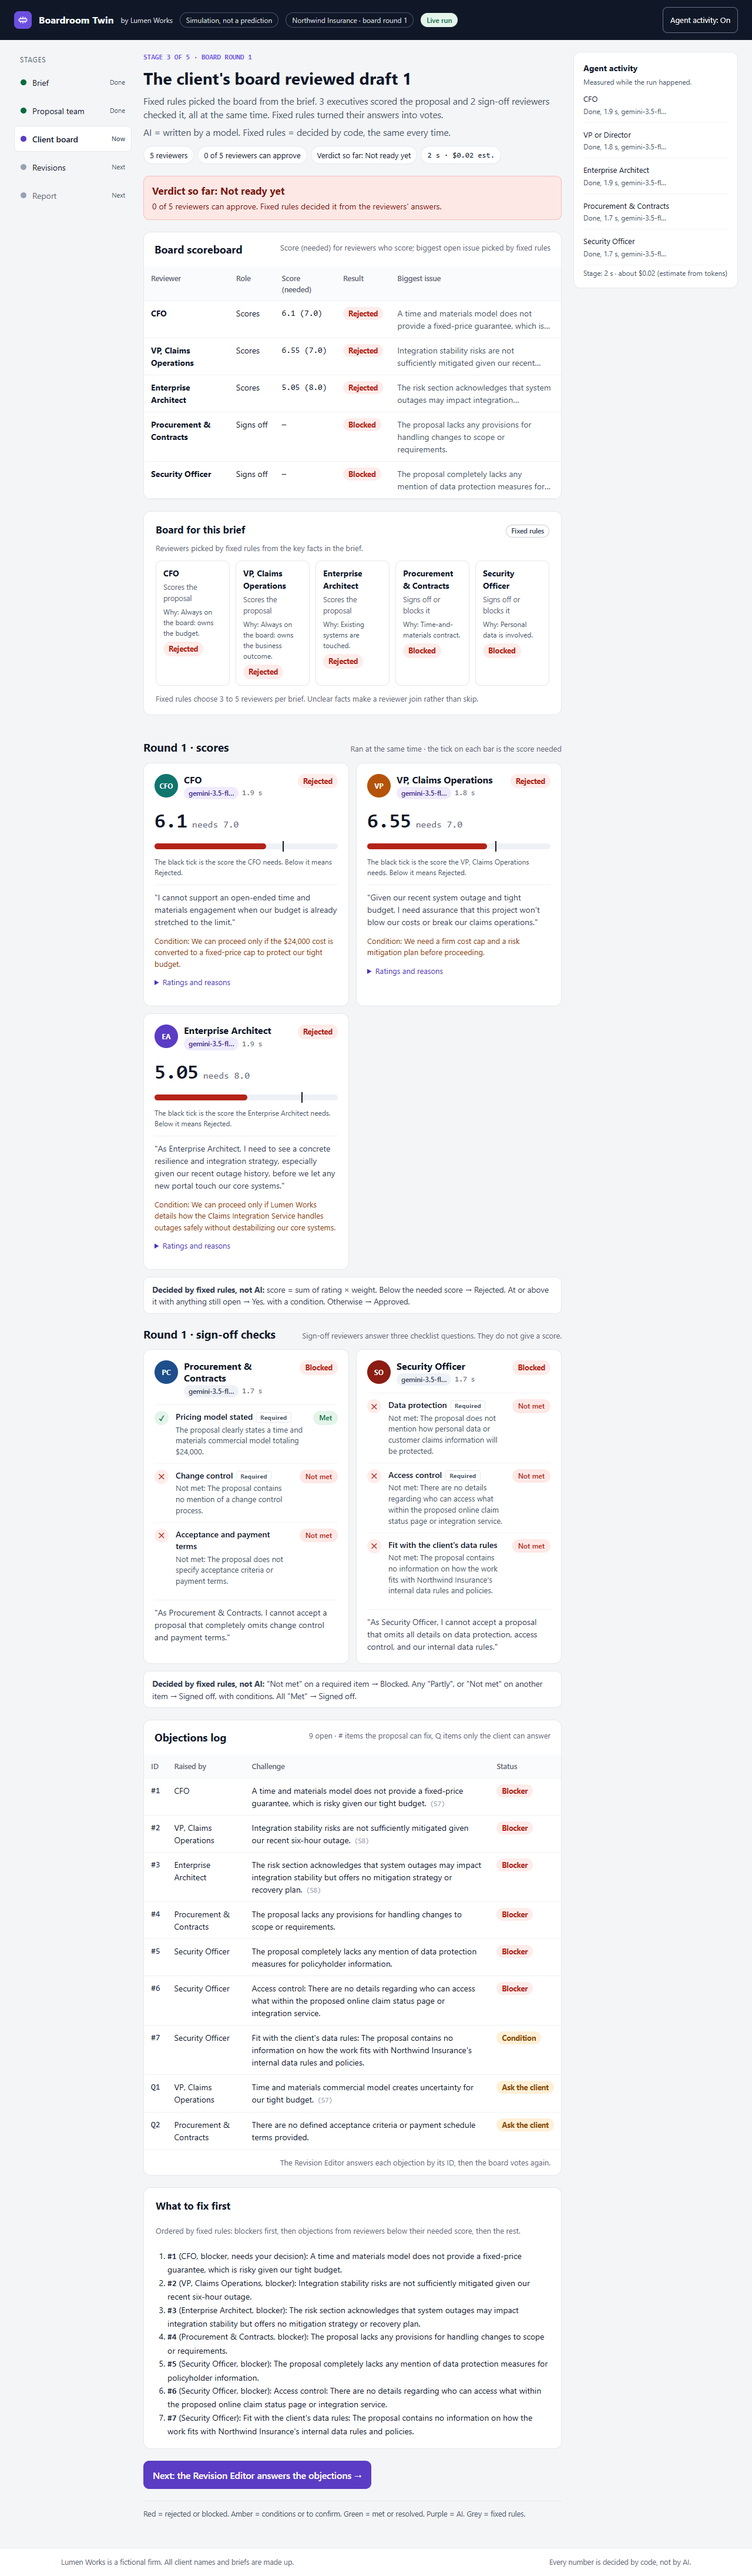
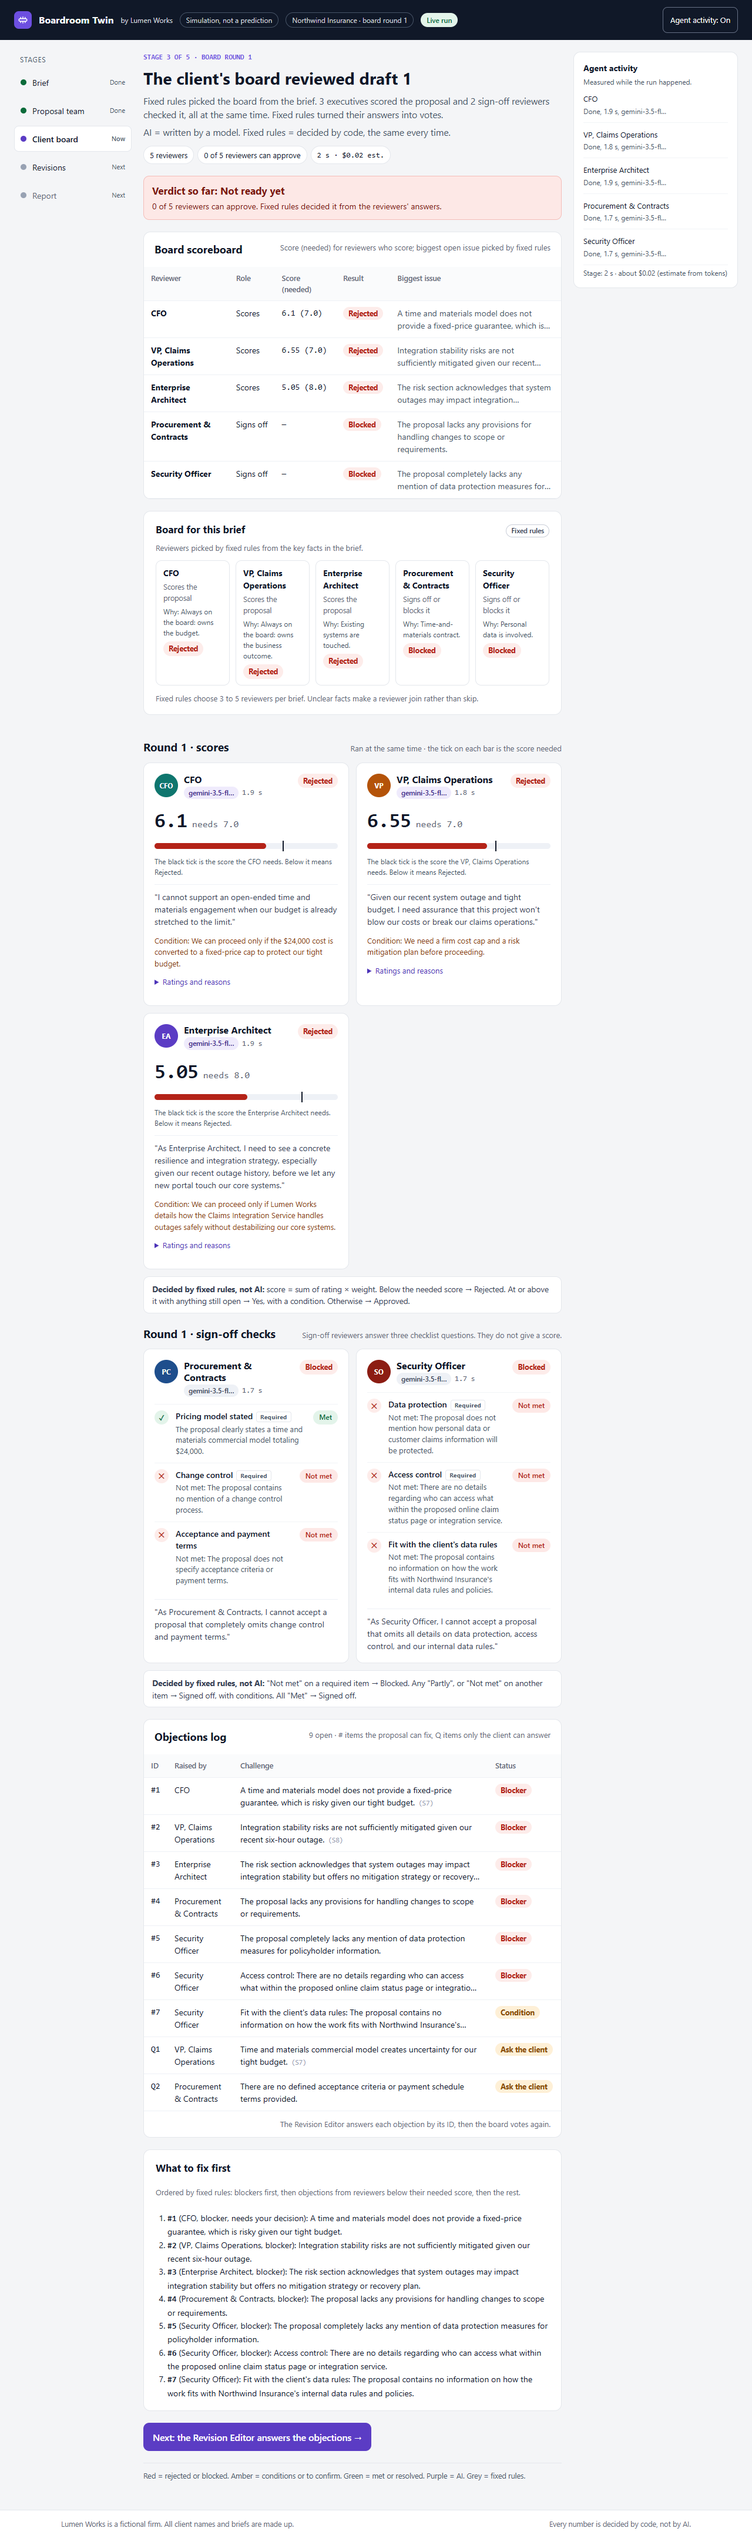
Record the additional follow-up items and refresh the screenshots

diff --git a/docs/wording.md b/docs/wording.md
@@ -73,8 +73,12 @@ Other role names are unchanged: Business Analyst, Solution Architect, Delivery M
 
 ## Code-written server text
 
-Step labels, summaries, handoff lines, stop lines, the report summary and the key-number labels and notes are written by code on the server. `codeText()` in `labels.js` shows them in the words above: role names, Pass → Signed off, seat → reviewer, claim → statement, gate → sign-off check, context flags → key facts, conditions to confirm → items for the client to confirm, and ids O1 → #1, C1 → Q1. Model-written text (objections, quotes, conditions, reasons, proposal statements) is never rewritten.
+Step labels, summaries, handoff lines, stop lines, the report summary and the key-number labels and notes are written by code on the server. `codeText()` in `labels.js` shows them in the words above: role names, Pass → Signed off, seat → reviewer, claim → statement, gate → sign-off check, context flags → key facts, conditions to confirm → items for the client to confirm, and ids O1 → #1, and C1 → Q1 only when C1 is a client-only item in the current tracker (a statement id such as C7 stays as written). Model-written text (objections, quotes, conditions, reasons, proposal statements) is never rewritten.
 
 ## Tests that assert display strings (updated with the renames)
 
 `tests/js/board_screen.test.mjs` and `tests/js/loop_screens.test.mjs`: the not-reviewed texts, "Retry this reviewer", shown ids (#1, Q1, S7), "Ask the client", reviewer counts, "Required item", "Signed off", the tracker statuses, "Revision Editor" lines, "items for the client to confirm", "Decisions for you". The assertions on internal codes, classes and attributes are unchanged.
+
+## Reviewer names
+
+Every screen, including the activity rail, names a reviewer by its seat title from the board plan (for example "VP, Customer Support"). Before the board plan is known, and for every other agent, the role label is used (`stepName()` in `labels.js`).

diff --git a/docs/decisions.md b/docs/decisions.md
@@ -221,3 +221,9 @@ A short record of each choice, including ones still unconfirmed.
   - The proposal title reads "Final draft (draft N)".
 - **Revisions:** the page reads top-down: loop path, then "Why the loop stopped" (with sign-off checks by round) beside "Scores by round", then the compact tracker. Rounds follow as collapsible blocks, with the latest open and earlier ones summarised in one line ("Round 1: 8 changes, 3 reviewers up, 0 down"). The objections table is collapsed. With the recorded Northwind run the page went from 7,589 px to 3,485 px at 1280 wide, and from 10,029 px to 5,799 px at 390.
 - **Legends:** under each stage intro, "AI = written by a model. Fixed rules = decided by code, the same every time."; at the foot of each stage page, the colour legend. Both are hidden in print.
+- **Additional items (same follow-up):**
+  - The Client board shows "Verdict so far" once, in the coloured box under the header; the duplicate header chip is gone, and its explanation is now the box's tooltip.
+  - The activity rail names each reviewer by its board title once the board plan is known (`stepName()` in `labels.js`). Before that, and for every other agent, it uses the role label.
+  - In code-written text, "C1" becomes "Q1" only when C1 is a client-only item in the current tracker (`setClientIds()`). Any other "C1", such as a statement id, is left as written.
+  - In both objection tables, the fixed columns are narrower, the Challenge and What changed texts get the width, and each is clamped to two lines with the full text in the tooltip.
+  - Report average edge case (server, `domain/report.py: score_number` only): when no scoring reviewer answered in both rounds, the value is "—" with the note "No reviewer answered in both rounds". The headline is unchanged and shows "—" in that case.

diff --git a/docs/frontend-inventory.md b/docs/frontend-inventory.md
@@ -133,3 +133,6 @@ No existing assertion in `tests/js` had to change: every class, attribute and te
 - Revisions: same content, reordered top-down; earlier rounds and the objections table are collapsed (open on click). Sign-off checks by round moved into the "Why the loop stopped" card.
 - Report: the "Confirm with the client" and "Decisions for you" lists moved from Meeting prep to "What to do next" under the verdict; "Nothing is waiting for the client." stays in Meeting prep. New "Scores by reviewer" card. "What changed" shows the objection in words with its #id.
 - Legend lines added under each stage intro and at each page foot (hidden in print).
+- Client board: the "Verdict so far" header chip was removed because the same verdict shows in the box below it; the chip's tooltip moved to the box.
+- Activity rail: reviewers are named by their board titles, the same as on the board.
+- Objection tables: text columns clamp to two lines; the full text is in the tooltip.
